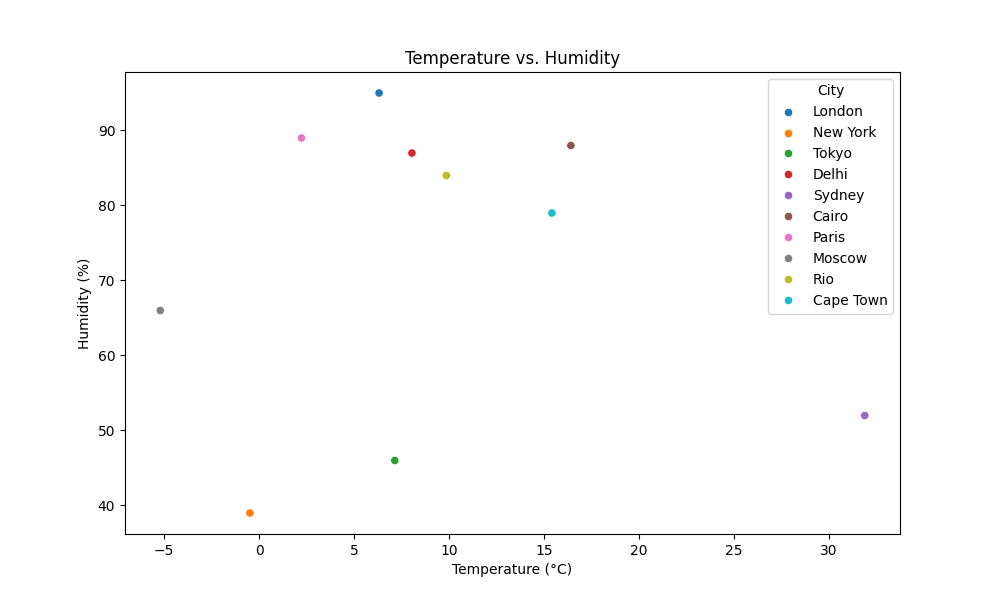
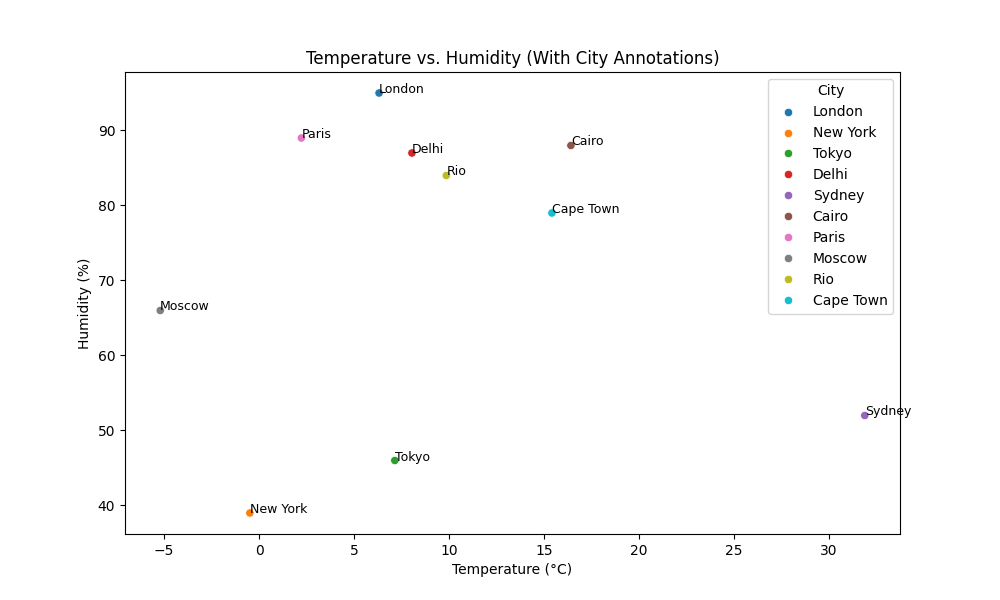
Enhanced scatter plot with annotations and added summary report script and output

diff --git a/summary_report.py b/summary_report.py
@@ -1,0 +1,21 @@
+import pandas as pd
+
+# Load cleaned data
+df = pd.read_csv("cleaned_weather_data.csv")
+
+# Calculate key statistics
+avg_temp = df["Temperature"].mean()
+avg_humidity = df["Humidity"].mean()
+hottest_city = df.loc[df["Temperature"].idxmax(), "City"]
+most_humid_city = df.loc[df["Humidity"].idxmax(), "City"]
+
+# Generate the report
+with open("summary_report.txt", "w") as file:
+    file.write("Weather Data Summary Report\n")
+    file.write("===========================\n")
+    file.write(f"Average Temperature: {avg_temp:.2f}°C\n")
+    file.write(f"Average Humidity: {avg_humidity:.2f}%\n")
+    file.write(f"Hottest City: {hottest_city}\n")
+    file.write(f"Most Humid City: {most_humid_city}\n")
+
+print("Summary report generated: summary_report.txt")

diff --git a/analyze_weather_data.py b/analyze_weather_data.py
@@ -44,7 +44,9 @@ plt.show()
 # Scatter plot: Temperature vs. Humidity
 plt.figure(figsize=(10, 6))
 sns.scatterplot(x="Temperature", y="Humidity", hue="City", data=df)
-plt.title("Temperature vs. Humidity")
+for i, row in df.iterrows():
+    plt.text(row["Temperature"], row["Humidity"], row["City"], fontsize=9)
+plt.title("Temperature vs. Humidity (With City Annotations)")
 plt.xlabel("Temperature (°C)")
 plt.ylabel("Humidity (%)")
 plt.savefig("temp_vs_humidity.png")
